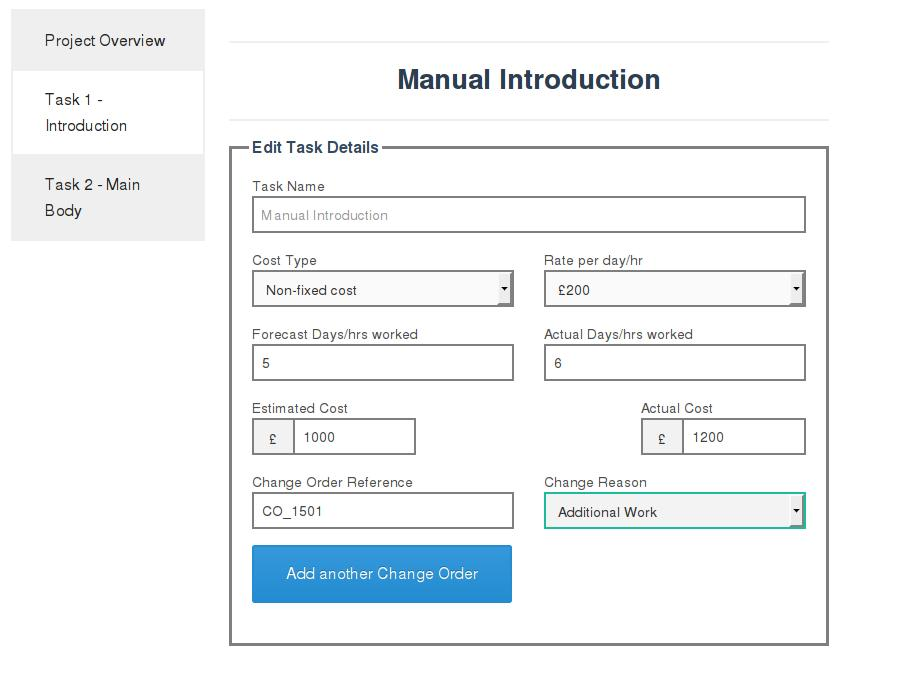
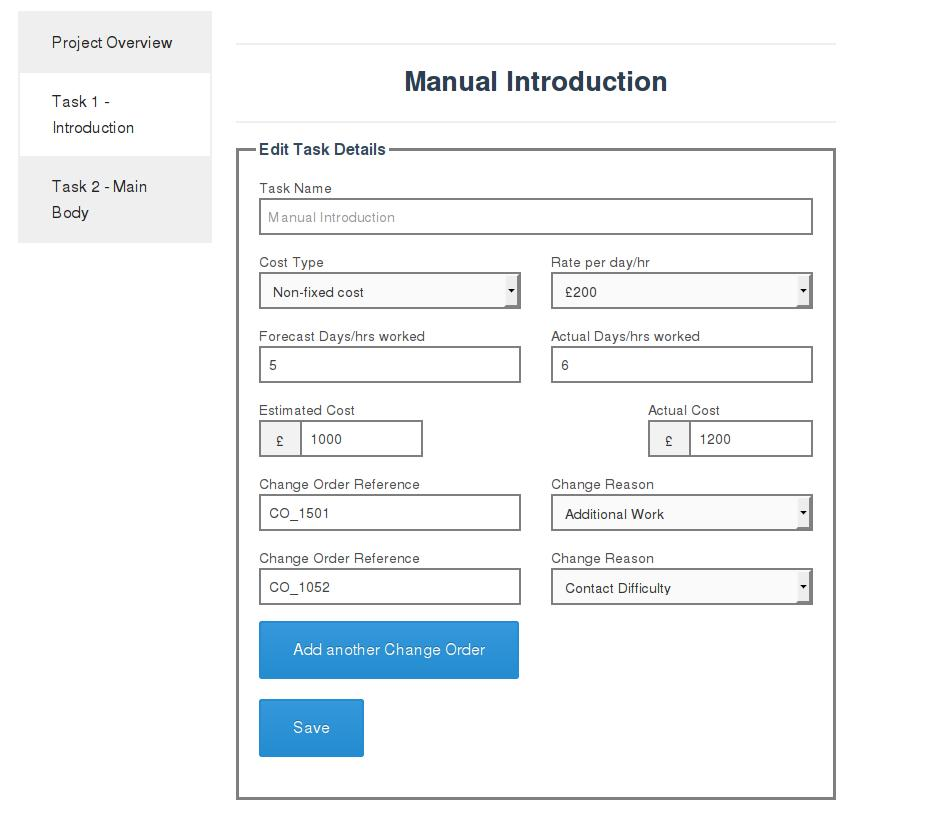
changed CO and screenshot

diff --git a/index.html b/index.html
@@ -210,12 +210,32 @@
               </div>
           </div>
 
+<div class="row">
+            <div class="large-6 columns">
+              <label>Change Order Reference</label>
+              <input type="text" placeholder="">
+            </div>
+              <div class="large-6 columns">
+                <label>Change Reason</label>
+                <select class ="styled-select">
+                  <option label="Additional Work">Contact Difficulty</option>
+                  <option label="Contact Difficulty">Additional Work</option>
+                  <option label="Delayed Review">Delayed Review</option>
+                </select>
+              </div>
+          </div>
 
+<div class="row">
+            <div class="large-12 columns">
 
+              <button class="button radius" type="button">Add another Change Order</button>
+
+            </div>
+          </div>
           <div class="row">
             <div class="large-12 columns">
 
-              <button class="button radius" type="button"><img src="images/paperclip.png" alt=""> Attach Change Order</button>
+              <button class="button radius" type="button">Save</button>
 
             </div>
           </div>
